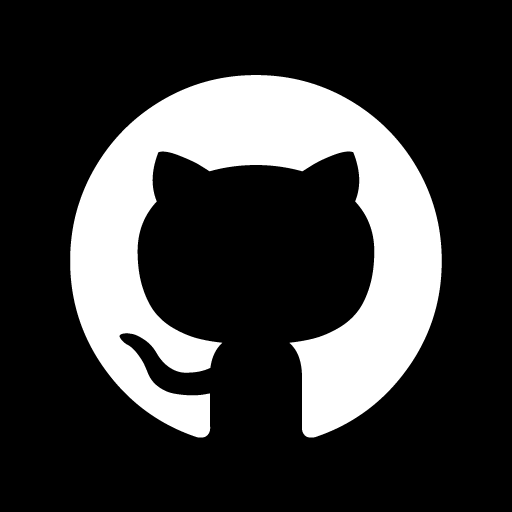
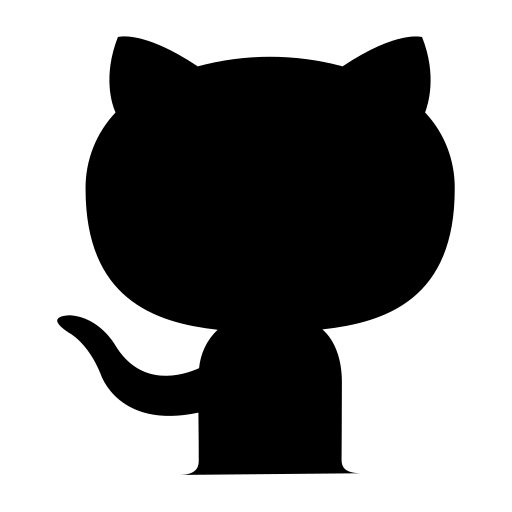
update 5

diff --git a/index.html b/index.html
@@ -61,9 +61,9 @@
                 </button>
             </div>
             <div id="socials-container">
-                <img src="./assets/linkedin.png" alt="My LinkedIn profile" class="icon"
+                <img src="./assets/in.png" alt="My LinkedIn profile" class="icon linkedin-dark-mode"
                     onclick="location.href='https://www.linkedin.com/in/mayura-patkar-14306a2b1/'" />
-                <img src="./assets/github.png" alt="My Github profile" class="icon"
+                <img src="./assets/github2.png" alt="My Github profile" class="icon github-dark-mode"
                     onclick="location.href='https://github.com/Mayur68'" />
             </div>
         </div>
@@ -215,19 +215,20 @@
         <h1 class="title">Contact Me</h1>
         <div class="contact-info-upper-container">
             <div class="contact-info-container">
-                <img src="./assets/email.png" alt="Email icon" class="icon contact-icon email-icon" />
+                <img src="./assets/mail.png" alt="Email icon" class="icon contact-icon email-icon email-dark-mode" />
                 <p><a href="mailto:mayurpatkar68@gmaul.com">mayurpatkar68@gmail.com</a></p>
             </div>
             <div class="contact-info-container">
-                <img src="./assets/linkedin.png" alt="LinkedIn icon" class="icon contact-icon" />
+                <img src="./assets/in.png" alt="LinkedIn icon" class="icon contact-icon linkedin-dark-mode" />
                 <p><a href="https://www.linkedin.com/in/mayura-patkar-14306a2b1/">LinkedIn</a></p>
             </div>
             <div class="contact-info-container">
-                <img src="./assets/X.png" alt="LinkedIn icon" class="icon contact-icon" />
+                <img src="./assets/X.png" alt="LinkedIn icon" class="icon contact-icon x-dark-mode" />
                 <p><a href="https://x.com/mayurpatkar68?t=x81TllvAZ9pmkAUm9z53ag&s=08">X</a></p>
             </div>
         </div>
     </section>
+
     <footer>
         <nav>
             <div class="nav-links-container">

diff --git a/script.js b/script.js
@@ -6,30 +6,32 @@ function toggleMenu() {
 }
 
 // Function to handle toggling classes
-function toggleClasses(toggleElement, overlayElement) {
+function toggleClasses(toggleElement, ...elements) {
     toggleElement.classList.toggle('bi-moon');
-    if (toggleElement.classList.contains('bi-brightness-high-fill')) {
+    const isBrightMode = toggleElement.classList.contains('bi-brightness-high-fill');
+
+    if (isBrightMode) {
+        elements.forEach(element => {
+            element.classList.add('light-mode');
+        });
         document.body.classList.add('light-mode');
-        overlayElement.classList.add('light-mode');
     } else {
+        elements.forEach(element => {
+            element.classList.remove('light-mode');
+        });
         document.body.classList.remove('light-mode');
-        overlayElement.classList.remove('light-mode');
     }
     toggleElement.classList.toggle('bi-brightness-high-fill');
 }
 
-// First event listener
 const menuToggle = document.getElementById('toggle-dark');
 const shadowOverlay = document.querySelector('.shadow-overlay');
+const linkedin = document.querySelector('.linkedin-dark-mode');
+const github = document.querySelector('.github-dark-mode');
+const email = document.querySelector('.email-dark-mode');
+const x = document.querySelector('.x-dark-mode');
 
 menuToggle.addEventListener('click', function () {
-    toggleClasses(this, shadowOverlay);
+    toggleClasses(this, document.body, shadowOverlay, linkedin, github, email, x);
 });
 
-// Second event listener
-const menuToggle_ = document.getElementById('moblie-toggle-dark');
-const shadowOverlay_ = document.querySelector('.shadow-overlay');
-
-menuToggle_.addEventListener('click', function () {
-    toggleClasses(this, shadowOverlay_);
-});

diff --git a/style.css b/style.css
@@ -25,6 +25,22 @@ body.light-mode {
     color: #262626;
 }
 
+.linkedin-dark-mode.light-mode {
+    content: url('./assets/in1.png');
+}
+
+.github-dark-mode.light-mode {
+    content: url('./assets/github1.png');
+}
+
+.email-dark-mode.light-mode {
+    content: url('./assets/mail.png');
+}
+
+.x-dark-mode.light-mode {
+    content: url('./assets/X1.png');
+}
+
 nav {
     color: inherit;
     display: flex;
@@ -332,7 +348,7 @@ section {
     height: 80%;
 }
 
-.text-container p{
+.text-container p {
     font-size: 1.3rem;
 }
 
